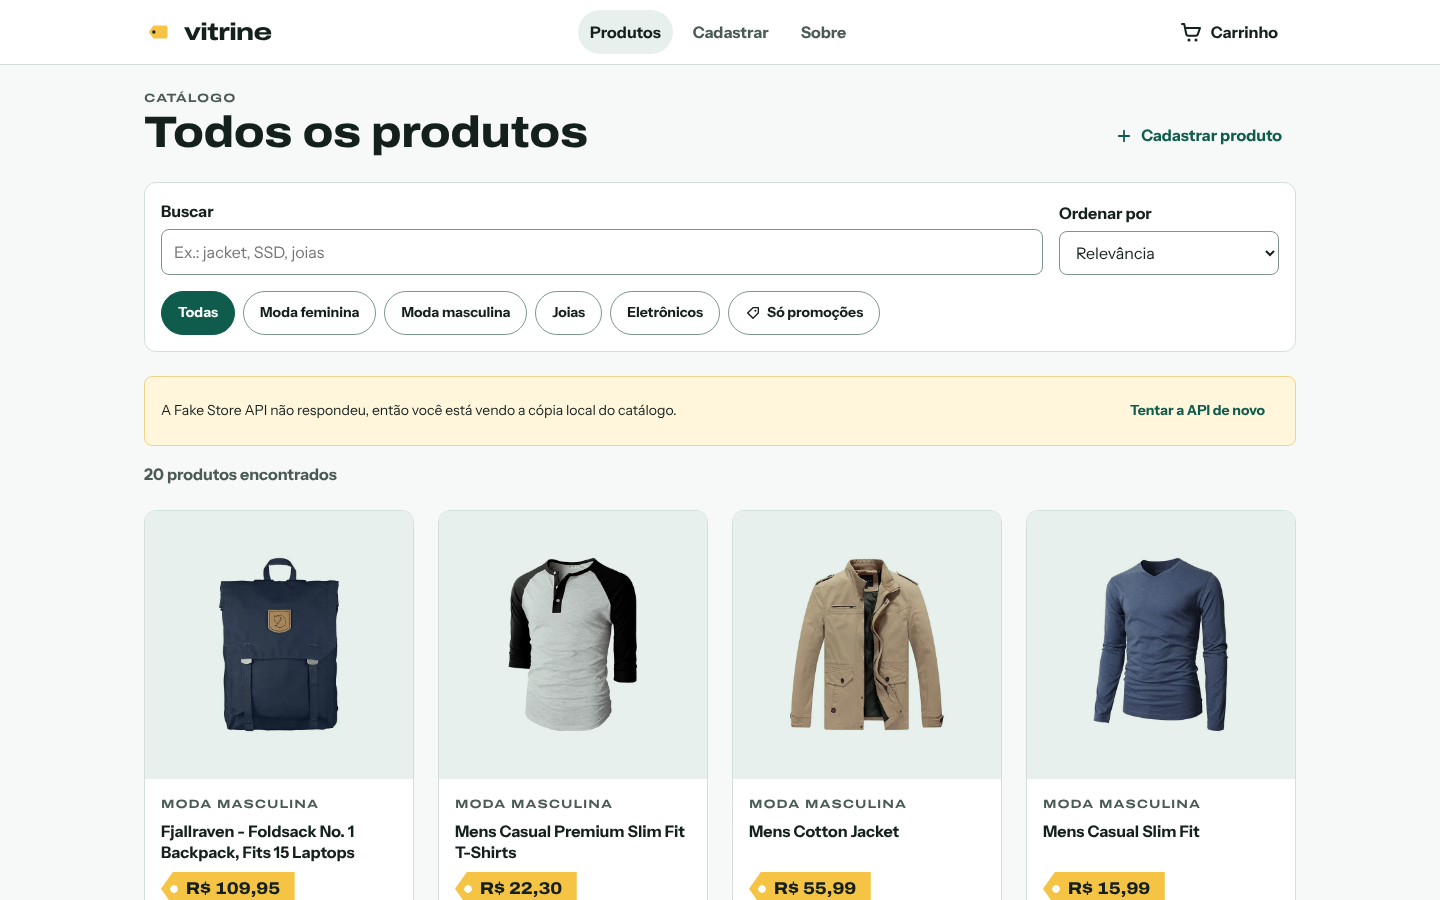
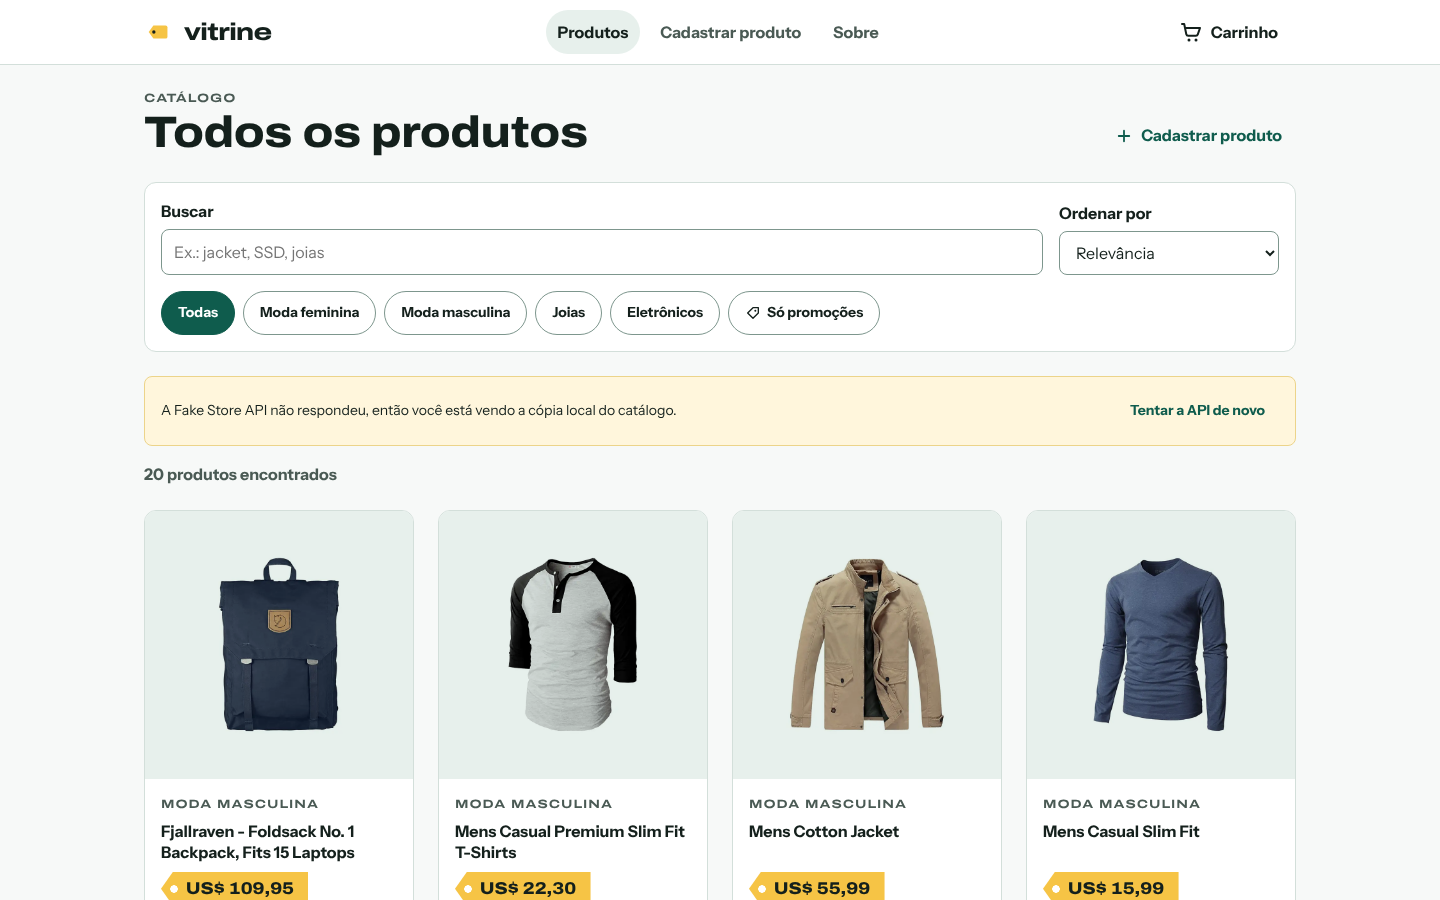
docs: README sem "em breve" e sem notas que não dá para reproduzir; prints em US$
- seção "Como verificar": npm run test:ci e npm run e2e no lugar das notas do Lighthouse
- print de celular do carrinho mostra só a tela visível (a barra fixa no lugar certo)
- prints e GIF refeitos com os preços em US$ e o menu "Cadastrar produto"
- ESTUDO.md: correção do origem, cópia local por 1 minuto, carrinho atualizado com o catálogo

diff --git a/ESTUDO.md b/ESTUDO.md
@@ -46,7 +46,9 @@ Ideia da resposta: `computed` quando quero um **valor** derivado (total do carri
 2. se falhar, o `catchError` busca a cópia local `src/assets/produtos.json` (mesmos campos da API) e o service marca `origem = 'local'`, e a tela mostra um aviso;
 3. se a cópia local também falhar, o erro chega ao componente, que mostra "Não foi possível carregar os produtos" com o botão **Tentar de novo**.
 
-A lista fica guardada no service com `shareReplay(1)`: home, catálogo e cadastro usam a mesma resposta, sem refazer a requisição a cada troca de página. Se der erro, o `shareReplay` não guarda o erro, então a próxima chamada tenta de novo; o botão "Tentar de novo" força uma busca nova com `listar(true)`.
+A lista fica guardada no service com `shareReplay(1)`: home, catálogo e cadastro usam a mesma resposta, sem refazer a requisição a cada troca de página. Se der erro, o `shareReplay` não guarda o erro, então a próxima chamada tenta de novo; o botão "Tentar de novo" força uma busca nova com `listar(true)`. Se a lista guardada for a cópia local, ela vale por 1 minuto: depois disso a próxima chamada tenta a API de novo, para a loja não ficar presa na cópia quando a API voltar.
+
+O signal `origem` fala **só da lista do catálogo**. Quem muda o valor é o `listar()`; o `buscarPorId()` (detalhe) não mexe nele. Antes os dois escreviam no mesmo signal, e abrir um produto apagava (ou mostrava sem motivo) o aviso de cópia local no catálogo.
 
 Também tipei a resposta (`ProdutoApi`) no lugar do `any` e converto para o formato da loja num lugar só (`ProdutoMapper`).
 
@@ -90,7 +92,7 @@ Ideia da resposta: template-driven serve para formulários bem simples. Reativo 
 
 **Onde.** `app.routes.ts`, `app.config.ts`, `core/titulo-pagina.strategy.ts`, `features/carrinho/carrinho-com-itens.guard.ts`.
 
-Testei também `withPreloading(PreloadAllModules)` (baixar todas as páginas em segundo plano). No Lighthouse móvel o tempo bloqueado (TBT) e o LCP pioraram, porque os arquivos extras disputavam a rede lenta com as fotos. Tirei: otimização que não foi medida pode piorar as coisas.
+O `withPreloading(PreloadAllModules)` (baixar todas as páginas em segundo plano) foi testado e retirado: os arquivos extras disputavam a rede com as fotos logo na abertura da página.
 
 **Pergunta para treinar.** *"Por que guardar os filtros na URL e não num signal do componente?"*
 Ideia da resposta: a URL já é um estado que o navegador sabe guardar, compartilhar e voltar. Se o filtro estivesse só na memória, recarregar a página ou mandar o link para alguém perderia o filtro.
@@ -101,7 +103,7 @@ Ideia da resposta: a URL já é um estado que o navegador sabe guardar, comparti
 
 **O que é.** Pipe transforma um valor só para exibição no template: `{{ preco | desconto: 10 | currency: 'BRL' }}`.
 
-**Por que usei.** Mantive os dois pipes do TP e corrigi um bug: o `desconto` arredondava para reais inteiros (R$ 98,95 virava R$ 99). Agora a conta fica numa função do model (`aplicarDesconto`) usada pelo pipe **e** pelo carrinho, para o preço da tela e o do total nunca divergirem. São pipes `pure`: o Angular só recalcula quando o valor de entrada muda. Também configurei `LOCALE_ID = 'pt-BR'` para o `currency` mostrar "R$ 1.299,90".
+**Por que usei.** Mantive os dois pipes do TP e corrigi um bug: o `desconto` arredondava para o valor inteiro (98,95 virava 99). Agora a conta fica numa função do model (`aplicarDesconto`) usada pelo pipe **e** pelo carrinho, para o preço da tela e o do total nunca divergirem. São pipes `pure`: o Angular só recalcula quando o valor de entrada muda. Também configurei `LOCALE_ID = 'pt-BR'` e `DEFAULT_CURRENCY_CODE = 'USD'`: o `currency` mostra "US$ 1.299,90", no formato brasileiro e na moeda real dos preços da Fake Store API (dólar).
 
 **Onde.** `shared/pipes/desconto-pipe.ts`, `shared/pipes/truncar-pipe.ts`, `model/produto.ts`.
 
@@ -116,7 +118,9 @@ Ideia da resposta: pipe puro só roda de novo quando a referência do valor de e
 
 **Por que usei.** Para testar exatamente os caminhos difíceis de reproduzir na mão: API respondendo, API caindo e o catálogo local assumindo, os dois falhando. O `afterEach(() => http.verify())` garante que nenhuma requisição ficou sem resposta.
 
-Além do `ProdutoService`, testei o `CarrinhoService` (adicionar, somar, máximo de 10, remover, totais com desconto, frete grátis a partir de R$ 299, persistência no localStorage com `TestBed.tick()` para rodar o `effect`), os pipes, os filtros do catálogo, a máscara de CEP, o guard e os componentes principais. São 115 testes; no TP eram 15, e 9 falhavam.
+Além do `ProdutoService`, testei o `CarrinhoService` (adicionar, somar, máximo de 10, remover, totais com desconto, frete grátis a partir de US$ 299, persistência no localStorage com `TestBed.tick()` para rodar o `effect`), os pipes, os filtros do catálogo, a máscara de CEP, o guard e os componentes principais. São 122 testes de unidade; no TP eram 15, e 9 falhavam.
+
+Além deles, `npm run e2e` roda 8 testes de ponta a ponta com o **Playwright** (o fluxo completo de compra em 1440 px e 390 px, o cadastro, a página 404 e a loja com a API fora do ar). A API é simulada com `page.route()`, e o **axe-core** verifica a acessibilidade em cada tela.
 
 **Onde.** `*.spec.ts` ao lado de cada arquivo; rodo com `npm test` (ou `npm run test:ci` sem janela).
 
@@ -130,13 +134,14 @@ Ideia da resposta: `provideHttpClient()` + `provideHttpClientTesting()` no TestB
 | Decisão | Por quê | Onde |
 |---|---|---|
 | Estoque e promoção com regra fixa por id | O TP usava `Math.random()`: o mesmo produto aparecia "Esgotado" num reload e disponível no outro. A Fake Store API não tem estoque, então simulo de forma previsível e testável. | `model/produto.ts` |
-| `NgOptimizedImage` | Lazy loading por padrão e `priority` nas imagens que aparecem logo de cara (melhora o LCP). | `card-produto`, `banner`, `galeria-produto` |
+| `NgOptimizedImage` | Lazy loading por padrão e `priority` nas imagens que aparecem logo de cara (a imagem principal aparece mais cedo). | `card-produto`, `banner`, `galeria-produto` |
 | Card como componente de apresentação | O card recebe `input()` e avisa com `output()`; quem decide adicionar ao carrinho é a página. Fica reutilizável (a prévia do cadastro usa o mesmo card). | `card-produto.ts` |
 | Tokens de design em `:root` | Cores, espaços (8/16/24/40/64), raio e sombra num lugar só; os componentes só usam variáveis. | `src/styles.css` |
-| Acessibilidade | Link "Pular para o conteúdo", foco visível, alvos de toque ≥ 44 px, `aria-live` nos avisos, `lang="en"` nos textos que vêm da API em inglês. Rodei o axe em todas as telas: 0 violações. | vários |
+| Acessibilidade | Link "Pular para o conteúdo", foco visível, alvos de toque ≥ 44 px, `aria-live` nos avisos, `lang="en"` nos textos que vêm da API em inglês. O `npm run e2e` roda o axe em cada tela. | vários |
 | `ChangeDetectionStrategy.OnPush` | Com OnPush o Angular só revisa o componente quando um `input` muda, um evento acontece nele ou um signal lido no template muda. Como o estado está em signals, dá para usar em todos os componentes sem mudar a lógica. | todos os `@Component` |
+| Carrinho atualizado com o catálogo atual | O carrinho salvo guarda uma cópia do produto. Ao abrir o carrinho ou o checkout, `atualizarProdutos()` troca a cópia pelo produto atual (preço, promoção, estoque) e tira o que esgotou. | `carrinho.service.ts`, `atualizar-carrinho.ts` |
 | `adicionar()` devolve quantas unidades entraram | Com limite de 10 por produto, a tela precisa saber se algo entrou de fato para não mostrar "adicionado" quando nada mudou. | `carrinho.service.ts` |
-| `min-height` no `<main>` | Sem ele o rodapé aparecia no topo e "pulava" quando a página carregava (CLS de 0,46 no Lighthouse; depois, ~0). | `app.css` |
+| `min-height` no `<main>` | Sem ele o rodapé aparecia no topo e "pulava" para baixo quando a página carregava (mudança de layout, o CLS). | `app.css` |
 
 **Pergunta extra.** *"O que você faria diferente se fosse um projeto de verdade?"*
 Ideia da resposta: checkout e preço validados no servidor (nunca confiar no total calculado no navegador), API própria com estoque real, imagens servidas por uma CDN que redimensiona, e testes de ponta a ponta rodando no CI.

diff --git a/README.md b/README.md
@@ -4,9 +4,8 @@ Loja virtual de demonstração feita em **Angular 20**: catálogo com busca e fi
 
 ![Fluxo de compra: catálogo, filtro, detalhe, carrinho, checkout e pedido confirmado](docs/fluxo-compra.gif)
 
-- **Ver online:** em breve <!-- TODO(Beatriz): colocar o link quando fizer o deploy -->
 - **Código:** [github.com/beatrizcampos-dev/loja-angular](https://github.com/beatrizcampos-dev/loja-angular)
-- **Autora:** Beatriz Campos Alves · <!-- TODO(Beatriz): link do LinkedIn --> LinkedIn em breve
+- **Autora:** Beatriz Campos Alves
 
 > Nenhuma compra é real: não existe cobrança, entrega nem envio de e-mail.
 
@@ -22,7 +21,7 @@ Uma loja virtual parece simples até a primeira coisa dar errado: a API cai e a 
 - **Catálogo** com busca (sem diferenciar acentos), filtro por categoria, "só promoções" e ordenação por preço ou nome. Os filtros ficam na URL: o link pode ser compartilhado e o botão Voltar funciona.
 - **Estados de tela de verdade:** esqueleto enquanto carrega, aviso quando a API cai e a loja usa a cópia local, erro com "Tentar de novo", estado vazio com ação.
 - **Detalhe do produto** com galeria (zoom ao clicar), preço com desconto, seletor de quantidade e aviso (toast) ao adicionar.
-- **Carrinho** com quantidade, remover, subtotal, frete simulado (grátis a partir de R$ 299) e barra de progresso até o frete grátis. Continua salvo depois de fechar o navegador.
+- **Carrinho** com quantidade, remover, subtotal, frete simulado (grátis a partir de US$ 299) e barra de progresso até o frete grátis. Continua salvo depois de fechar o navegador e, ao ser aberto, atualiza preço e estoque com o catálogo atual.
 - **Checkout simulado** com validação (e-mail, CEP com máscara 00000-000, endereço), foco no primeiro campo com erro e tela de pedido confirmado.
 - **Cadastro de produto** com formulário reativo e prévia do card enquanto a pessoa digita.
 - **Página 404**, título da aba por página e rotas carregadas sob demanda.
@@ -45,12 +44,12 @@ Começou como trabalho prático (TP1) da disciplina de Técnicas de Programaçã
 | Botões "Adicionar" e "Detalhes" abriam `alert()` | Carrinho com signals, persistido no `localStorage` |
 | Estoque e promoção sorteados com `Math.random()` a cada reload | Regra fixa por id, previsível e testada |
 | Desconto arredondado para reais inteiros | Arredondado para centavos, mesma conta no pipe e no carrinho |
-| Preço no detalhe aparecia como "synbol109.95" | R$ 109,95 com `LOCALE_ID` pt-BR |
+| Preço no detalhe aparecia como "synbol109.95" | US$ 109,95: formato brasileiro (`LOCALE_ID` pt-BR) e a moeda que a API usa |
 | `any` no service, URL da API fixa no código | Tipos da API + `environment` |
 | Pastas `produto/` e `produtos/`, componente `qunatidade-controle` | Uma pasta por funcionalidade, nomes corrigidos |
 | Rota inexistente voltava para a home | Página 404 |
 | Todas as páginas no bundle inicial | `loadComponent` em todas as rotas |
-| 15 testes, 9 falhando | 115 testes passando |
+| 15 testes, 9 falhando | 122 testes de unidade e 8 de ponta a ponta passando |
 | Logo institucional e imagens de medicamentos na pasta pública | Identidade visual própria e só imagens do catálogo |
 
 ## Decisões de design
@@ -70,6 +69,7 @@ Começou como trabalho prático (TP1) da disciplina de Técnicas de Programaçã
 - Angular Router (lazy loading, guard funcional, `TitleStrategy`, `withComponentInputBinding`)
 - Reactive Forms, HttpClient, `NgOptimizedImage`
 - Jasmine + Karma (com `HttpTestingController`)
+- Playwright + axe-core (testes de ponta a ponta e de acessibilidade)
 - CSS puro com variáveis (sem biblioteca de UI)
 - Dados: [Fake Store API](https://fakestoreapi.com)
 
@@ -82,27 +82,22 @@ Pré-requisito: Node.js 20.19+, 22.12+ ou 24+ (as versões que o Angular 20 acei
 ```bash
 npm install
 npm start            # abre em http://localhost:4200
-npm test             # testes com o navegador aberto
-npm run test:ci      # testes sem janela (terminal/CI)
+npm test             # testes de unidade com o navegador aberto
+npm run test:ci      # testes de unidade sem janela (terminal/CI)
+npm run e2e          # testes de ponta a ponta (sobe o npm start sozinho)
 npm run build        # build de produção em dist/
 ```
 
-## Qualidade medida
+Na primeira vez que rodar `npm run e2e`, instale o navegador do Playwright: `npx playwright install chromium`.
 
-Medido em 08/10/2026 no build de produção servido localmente, com o Lighthouse 12 (perfil móvel, rede e CPU simuladas) e o axe-core. A Fake Store API foi substituída por uma cópia local dela durante a medição.
+## Como verificar
 
-| Página | Performance | Acessibilidade | Boas práticas | SEO |
-|---|---|---|---|---|
-| Início | 93 | 100 | 100 | 100 |
-| Produtos | 80 | 100 | 100 | 100 |
-| Detalhe | 93 | 100 | 100 | 100 |
-| Carrinho | 95 | 100 | 100 | 100 |
-| Sobre | 97 | 100 | 100 | 100 |
+Tudo o que este README afirma sobre qualidade dá para conferir rodando dois comandos:
 
-- Com a API fora do ar (loja usando o catálogo local), Performance ficou entre 81 e 96; Boas práticas cai para 96 nas páginas que chamam a API, só por causa do erro de rede registrado no console.
-- O que mais pesa na página de produtos são as fotos que a Fake Store API serve (JPG de até 1500 px). A cópia local usa WebP de 600 px.
-- axe-core: 0 violações em todas as telas, em 1440 px e 390 px, inclusive com erros de formulário na tela.
-- O fluxo completo (listar → filtrar → detalhe → adicionar → carrinho → checkout → confirmação) foi verificado com Playwright em 1440 px e 390 px, sem erros no console.
+- `npm run test:ci`: 122 testes de unidade (Jasmine + Karma), incluindo o `CarrinhoService`, os pipes, os filtros e o `ProdutoService` com `HttpTestingController`.
+- `npm run e2e`: 8 testes de ponta a ponta com Playwright, em 1440 px e 390 px. Eles fazem o fluxo completo (listar → filtrar → detalhe → adicionar → carrinho → checkout → confirmação) e falham se aparecer erro no console. Também testam o cadastro, a página 404 e a loja com a API fora do ar. Em cada tela, o axe-core verifica as regras de acessibilidade WCAG 2.2 A/AA.
+
+Nos testes de ponta a ponta a Fake Store API é simulada a partir de `src/assets/produtos.json`, então eles não dependem da internet nem da API estar no ar.
 
 ## O que pratiquei e próximos passos
 
@@ -114,13 +109,13 @@ Pratiquei:
 <!-- TODO(Beatriz): ajustar esta lista ao que você sente que aprendeu de verdade. -->
 
 Próximos passos:
-- deploy (Vercel ou similar) e link no topo deste README;
+- deploy (GitHub Pages ou Vercel) e link no topo deste README;
 - servir as fotos por uma CDN que redimensiona (loader do `NgOptimizedImage`) e hospedar as fontes junto com o app;
 - sincronizar o carrinho entre abas abertas (evento `storage`);
-- testes de ponta a ponta (Playwright) no repositório, rodando no GitHub Actions;
+- rodar `npm run test:ci` e `npm run e2e` no GitHub Actions a cada push;
 - buscar o endereço pelo CEP (ViaCEP);
 - experimentar o `httpResource` quando ele sair da fase experimental.
 
 ---
 
-Produtos, textos e fotos do catálogo vêm da [Fake Store API](https://fakestoreapi.com), projeto open source de MohammadReza Keikavousi (código sob licença MIT). A cópia local em `src/assets/produtos.json` e as fotos em `public/images/produtos/` foram geradas a partir dos dados públicos da API. Nomes e descrições dos produtos estão em inglês, como a API envia.
+Produtos, textos e fotos do catálogo vêm da [Fake Store API](https://fakestoreapi.com), projeto open source de MohammadReza Keikavousi (código sob licença MIT). A cópia local em `src/assets/produtos.json` e as fotos em `public/images/produtos/` foram geradas a partir dos dados públicos da API. Nomes e descrições dos produtos estão em inglês, e os preços em dólar (US$), como a API envia.
